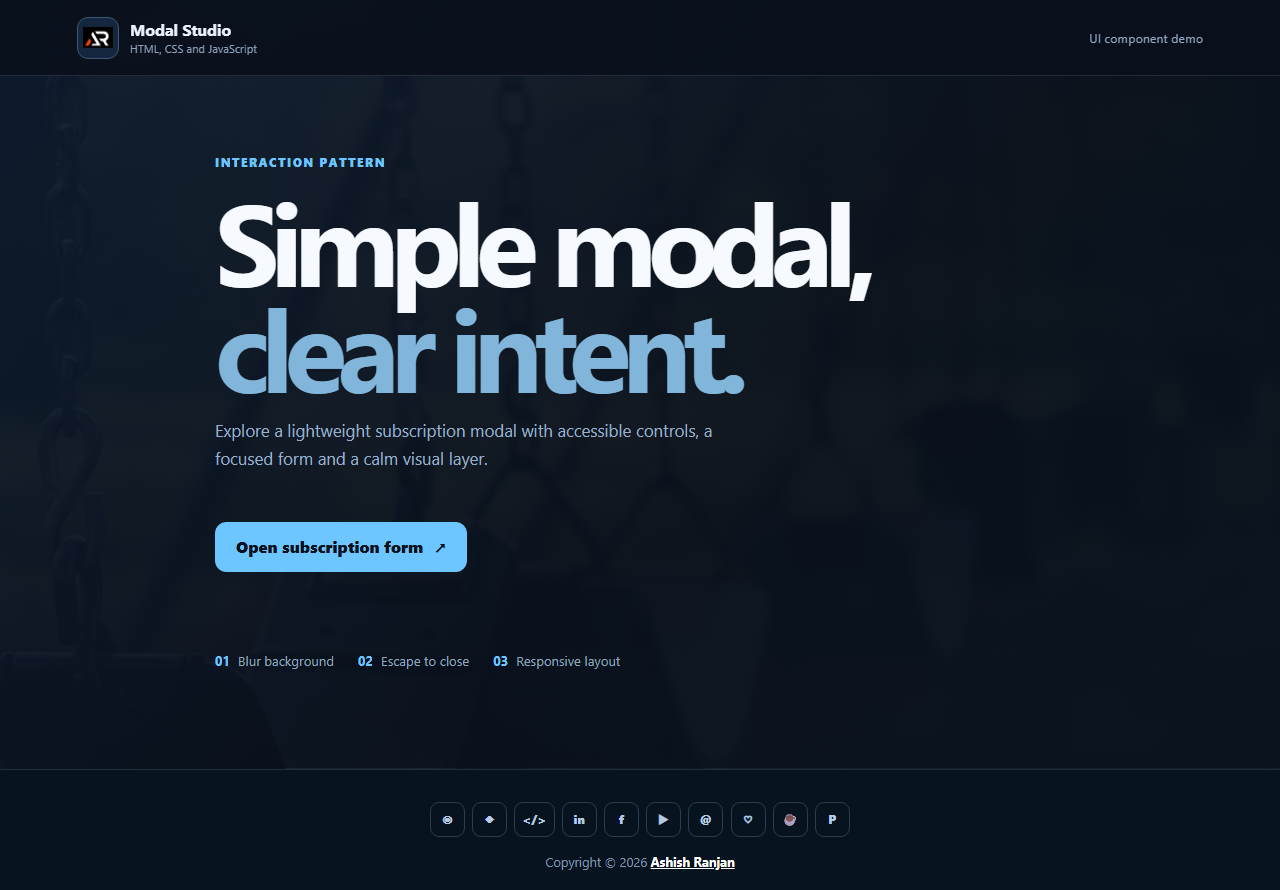
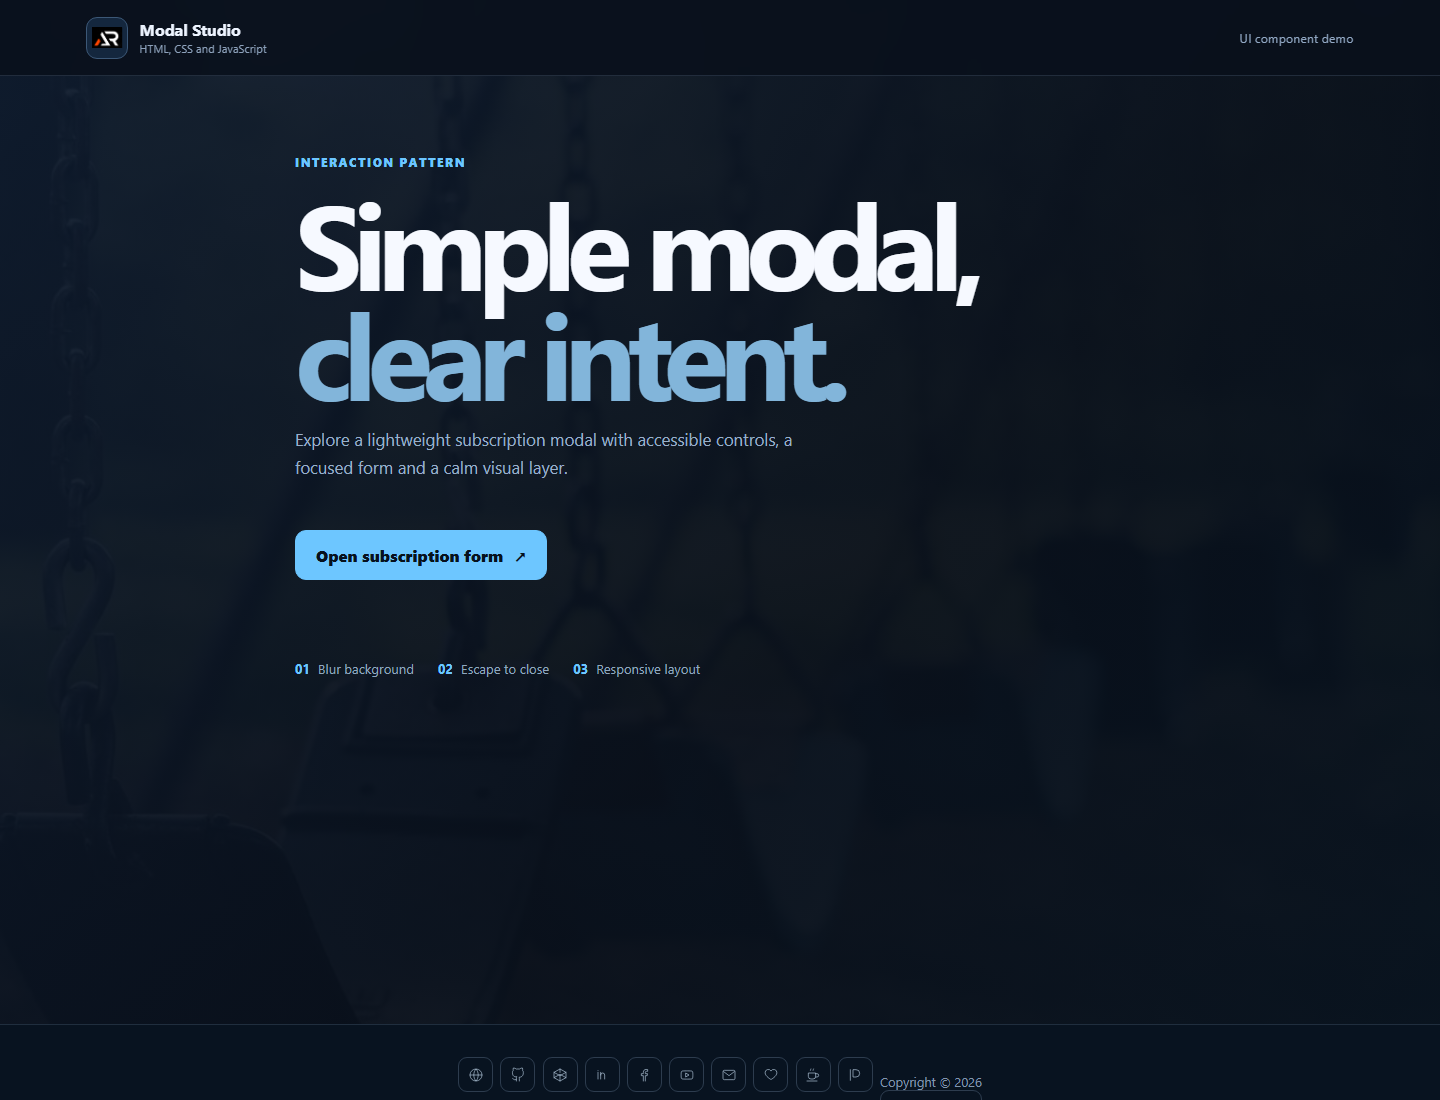
Polish modal popup demo

diff --git a/index.html b/index.html
@@ -32,7 +32,10 @@
             <button class="modalOpenButton" type="button" aria-haspopup="dialog" aria-controls="subscriptionModal">Open subscription form <span aria-hidden="true">&#8599;</span></button>
             <div class="featureRow"><span><b>01</b> Blur background</span><span><b>02</b> Escape to close</span><span><b>03</b> Responsive layout</span></div>
         </section>
-    </main>
+                <button class="goTopButton" type="button" aria-label="Go to top" title="Go to top">
+                <svg viewBox="0 0 24 24" aria-hidden="true"><path d="M12 19V5M6 11l6-6 6 6"></path></svg>
+            </button>
+        </main>
 
     <div class="formContainer" id="subscriptionModal" role="dialog" aria-modal="true" aria-labelledby="modalTitle" aria-hidden="true">
         <div class="modalCard">
@@ -51,18 +54,17 @@
     </div>
 
     <footer class="siteFooter">
-        <div class="footerLinks">
-            <a href="https://www.ashishranjan.net/" target="_blank" rel="noopener noreferrer" aria-label="Portfolio" title="Portfolio">&#9673;</a>
-            <a href="https://github.com/a2rp" target="_blank" rel="noopener noreferrer" aria-label="GitHub" title="GitHub">&#9670;</a>
-            <a href="https://codepen.io/ash1198" target="_blank" rel="noopener noreferrer" aria-label="CodePen" title="CodePen">&lt;/&gt;</a>
-            <a href="https://www.linkedin.com/in/aashishranjan" target="_blank" rel="noopener noreferrer" aria-label="LinkedIn" title="LinkedIn">in</a>
-            <a href="https://www.facebook.com/theash.ashish/" target="_blank" rel="noopener noreferrer" aria-label="Facebook" title="Facebook">f</a>
-            <a href="https://www.youtube.com/@ashishranjan-ashz?sub_confirmation=1" target="_blank" rel="noopener noreferrer" aria-label="YouTube" title="YouTube">&#9654;</a>
-            <a href="mailto:ash.ranjan09@gmail.com" aria-label="Email" title="Email">@</a>
-            <a href="https://a2rp-donation-page.netlify.app/" target="_blank" rel="noopener noreferrer" aria-label="Support" title="Support">&#9825;</a>
-            <a href="https://buymeacoffee.com/a2rp" target="_blank" rel="noopener noreferrer" aria-label="Buy Me a Coffee" title="Buy Me a Coffee">&#9749;</a>
-            <a href="https://patreon.com/a2rp" target="_blank" rel="noopener noreferrer" aria-label="Patreon" title="Patreon">P</a>
-        </div>
+        <div class="footerLinks" aria-label="Social and support links">
+            <a href="https://www.ashishranjan.net/" target="_blank" rel="noopener noreferrer" aria-label="Portfolio" title="Portfolio"><svg viewBox="0 0 24 24" aria-hidden="true"><circle cx="12" cy="12" r="9"></circle><path d="M3 12h18M12 3c2.2 2.5 3.3 5.5 3.3 9S14.2 18.5 12 21c-2.2-2.5-3.3-5.5-3.3-9S9.8 5.5 12 3Z"></path></svg></a>
+            <a href="https://github.com/a2rp" target="_blank" rel="noopener noreferrer" aria-label="GitHub" title="GitHub"><svg viewBox="0 0 24 24" aria-hidden="true"><path d="M9 19c-4 .9-4-2-5-2m10 4v-3.5c0-1 .1-1.4-.5-2C16.8 15.2 20 14 20 8.5A4.4 4.4 0 0 0 18.8 5C19 4.2 19.2 2.7 18.7 1.5c0 0-1.4-.4-4.7 1.6a16 16 0 0 0-4.3 0C6.4 1.1 5 1.5 5 1.5c-.5 1.2-.3 2.7-.1 3.5a4.4 4.4 0 0 0-1.2 3.5c0 5.5 3.2 6.7 6.5 5.9-.6.6-.6 1.2-.6 2V21"></path></svg></a>
+            <a href="https://codepen.io/ash1198" target="_blank" rel="noopener noreferrer" aria-label="CodePen" title="CodePen"><svg viewBox="0 0 24 24" aria-hidden="true"><path d="m3 8 9-5 9 5v8l-9 5-9-5V8Z"></path><path d="m3 8 9 5 9-5M3 16l9-5 9 5M12 13v8M12 3v5"></path></svg></a>
+            <a href="https://www.linkedin.com/in/aashishranjan" target="_blank" rel="noopener noreferrer" aria-label="LinkedIn" title="LinkedIn"><svg viewBox="0 0 24 24" aria-hidden="true"><path d="M6 8v10M6 5.5v.1M10 18v-6a3 3 0 0 1 6 0v6M10 12V8"></path></svg></a>
+            <a href="https://www.facebook.com/theash.ashish/" target="_blank" rel="noopener noreferrer" aria-label="Facebook" title="Facebook"><svg viewBox="0 0 24 24" aria-hidden="true"><path d="M14 21v-8h2.8l.4-3H14V8.1c0-.9.3-1.6 1.7-1.6h1.8V3.8c-.3 0-1.3-.1-2.4-.1C12.7 3.7 11 5.1 11 7.8V10H8v3h3v8"></path></svg></a>
+            <a href="https://www.youtube.com/@ashishranjan-ashz?sub_confirmation=1" target="_blank" rel="noopener noreferrer" aria-label="YouTube" title="YouTube"><svg viewBox="0 0 24 24" aria-hidden="true"><path d="M20.5 7.5a2 2 0 0 0-1.4-1.4C17.8 5.8 12 5.8 12 5.8s-5.8 0-7.1.3a2 2 0 0 0-1.4 1.4C3.2 8.8 3.2 12 3.2 12s0 3.2.3 4.5a2 2 0 0 0 1.4 1.4c1.3.3 7.1.3 7.1.3s5.8 0 7.1-.3a2 2 0 0 0 1.4-1.4c.3-1.3.3-4.5.3-4.5s0-3.2-.3-4.5Z"></path><path d="m10 15 5-3-5-3v6Z"></path></svg></a>
+            <a href="mailto:ash.ranjan09@gmail.com" aria-label="Email" title="Email"><svg viewBox="0 0 24 24" aria-hidden="true"><rect x="3" y="5" width="18" height="14" rx="2"></rect><path d="m4 7 8 6 8-6"></path></svg></a>
+            <a href="https://a2rp-donation-page.netlify.app/" target="_blank" rel="noopener noreferrer" aria-label="Support" title="Support"><svg viewBox="0 0 24 24" aria-hidden="true"><path d="M20.8 8.7c0 5.3-8.8 10.1-8.8 10.1S3.2 14 3.2 8.7A4.7 4.7 0 0 1 12 6.1a4.7 4.7 0 0 1 8.8 2.6Z"></path></svg></a>
+            <a href="https://buymeacoffee.com/a2rp" target="_blank" rel="noopener noreferrer" aria-label="Buy Me a Coffee" title="Buy Me a Coffee"><svg viewBox="0 0 24 24" aria-hidden="true"><path d="M5 9h11v5a4 4 0 0 1-4 4H9a4 4 0 0 1-4-4V9ZM16 10h2a2.5 2.5 0 0 1 0 5h-2M3 21h15M8 5c0-1 1-1.5 1-2M12 5c0-1 1-1.5 1-2"></path></svg></a>
+            <a href="https://www.patreon.com/a2rp" target="_blank" rel="noopener noreferrer" aria-label="Patreon" title="Patreon"><svg viewBox="0 0 24 24" aria-hidden="true"><path d="M5 4v16M9 4h4.5a5.5 5.5 0 0 1 0 11H9V4Z"></path></svg></a>
         <p>Copyright &copy; <span id="currentYear"></span> <a href="https://www.ashishranjan.net/" target="_blank" rel="noopener noreferrer">Ashish Ranjan</a></p>
     </footer>
 </body>

diff --git a/style.scss b/style.scss
@@ -77,3 +77,59 @@ button { cursor: pointer; }
     .featureRow { margin-top: 3rem; }
     .modalCard { padding: 1.5rem; }
 }
+.footerLinks svg {
+    width: 16px;
+    height: 16px;
+    fill: none;
+    stroke: currentColor;
+    stroke-width: 1.8;
+    stroke-linecap: round;
+    stroke-linejoin: round;
+}
+
+.goTopButton {
+    position: fixed;
+    right: 1.25rem;
+    bottom: 1.25rem;
+    z-index: 20;
+    display: grid;
+    width: 42px;
+    height: 42px;
+    place-items: center;
+    border: 1px solid rgba(164, 191, 224, 0.3);
+    border-radius: 50%;
+    background: #13283d;
+    color: #fff;
+    cursor: pointer;
+    box-shadow: 0 10px 24px rgba(0, 0, 0, 0.25);
+    transition: color 180ms ease, border-color 180ms ease, box-shadow 180ms ease, transform 180ms ease;
+}
+
+.goTopButton[hidden] {
+    display: none;
+}
+
+.goTopButton:hover,
+.goTopButton:focus-visible {
+    border-color: #6dc6ff;
+    color: #6dc6ff;
+    box-shadow: 0 0 18px rgba(109, 198, 255, 0.24);
+    transform: translateY(-2px);
+}
+
+.goTopButton svg {
+    width: 18px;
+    height: 18px;
+    fill: none;
+    stroke: currentColor;
+    stroke-width: 2;
+    stroke-linecap: round;
+    stroke-linejoin: round;
+}
+
+@media (max-width: 560px) {
+    .goTopButton {
+        right: 0.9rem;
+        bottom: 0.9rem;
+    }
+}

diff --git a/style.css b/style.css
@@ -77,3 +77,52 @@ button { cursor: pointer; }
     .featureRow { margin-top: 3rem; }
     .modalCard { padding: 1.5rem; }
 }
+.footerLinks svg {
+    width: 16px;
+    height: 16px;
+    fill: none;
+    stroke: currentColor;
+    stroke-linecap: round;
+    stroke-linejoin: round;
+}
+
+.goTopButton {
+    position: fixed;
+    right: 24px;
+    bottom: 24px;
+    z-index: 15;
+    display: grid;
+    width: 42px;
+    height: 42px;
+    place-items: center;
+    border: 1px solid #6dc6ff;
+    border-radius: 50%;
+    color: #07121e;
+    background: #6dc6ff;
+    cursor: pointer;
+    transition: border-color 180ms ease, box-shadow 180ms ease, text-shadow 180ms ease;
+}
+
+.goTopButton[hidden] {
+    display: none;
+}
+
+.goTopButton:hover,
+.goTopButton:focus-visible {
+    border-color: #ffffff;
+    box-shadow: 0 0 20px rgba(109, 198, 255, 0.32);
+    text-shadow: 0 0 8px rgba(255, 255, 255, 0.45);
+    outline: none;
+}
+
+.goTopButton svg {
+    width: 18px;
+    height: 18px;
+}
+
+@media (max-width: 600px) {
+    .goTopButton {
+        right: 16px;
+        bottom: 16px;
+    }
+}

diff --git a/script.js b/script.js
@@ -20,3 +20,15 @@ modal.addEventListener("mousedown", (event) => { if (event.target === modal) set
 document.addEventListener("keydown", (event) => { if (event.key === "Escape" && modal.classList.contains("isOpen")) setModalState(false); });
 form.addEventListener("submit", (event) => { event.preventDefault(); message.textContent = "Thanks for subscribing."; form.reset(); });
 year.textContent = new Date().getFullYear();
+const goTopButton = document.querySelector(".goTopButton");
+
+const updateGoTopButton = () => {
+    goTopButton.hidden = window.scrollY <= 420;
+};
+
+goTopButton.addEventListener("click", () => {
+    window.scrollTo({ top: 0, behavior: "smooth" });
+});
+
+window.addEventListener("scroll", updateGoTopButton, { passive: true });
+updateGoTopButton();

diff --git a/README.md b/README.md
@@ -4,7 +4,7 @@ A small, responsive modal subscription form built with plain HTML, CSS and JavaS
 
 ## Features
 
-- Fixed branded header with local logo and favicon
+- Fixed branded header with local logo and favicon plus a floating go-to-top control
 - Responsive hero section with local visual asset
 - Accessible modal dialog with blur backdrop
 - Form validation, success feedback, outside-click and Escape-to-close behavior
